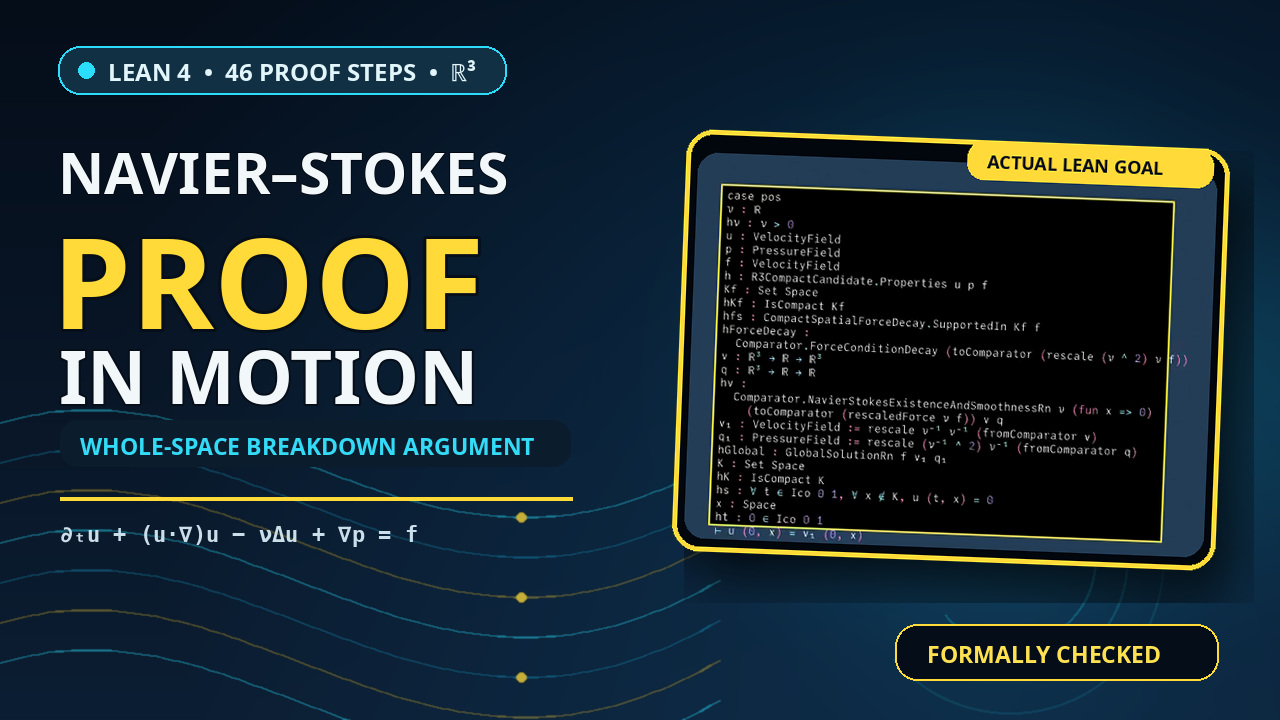
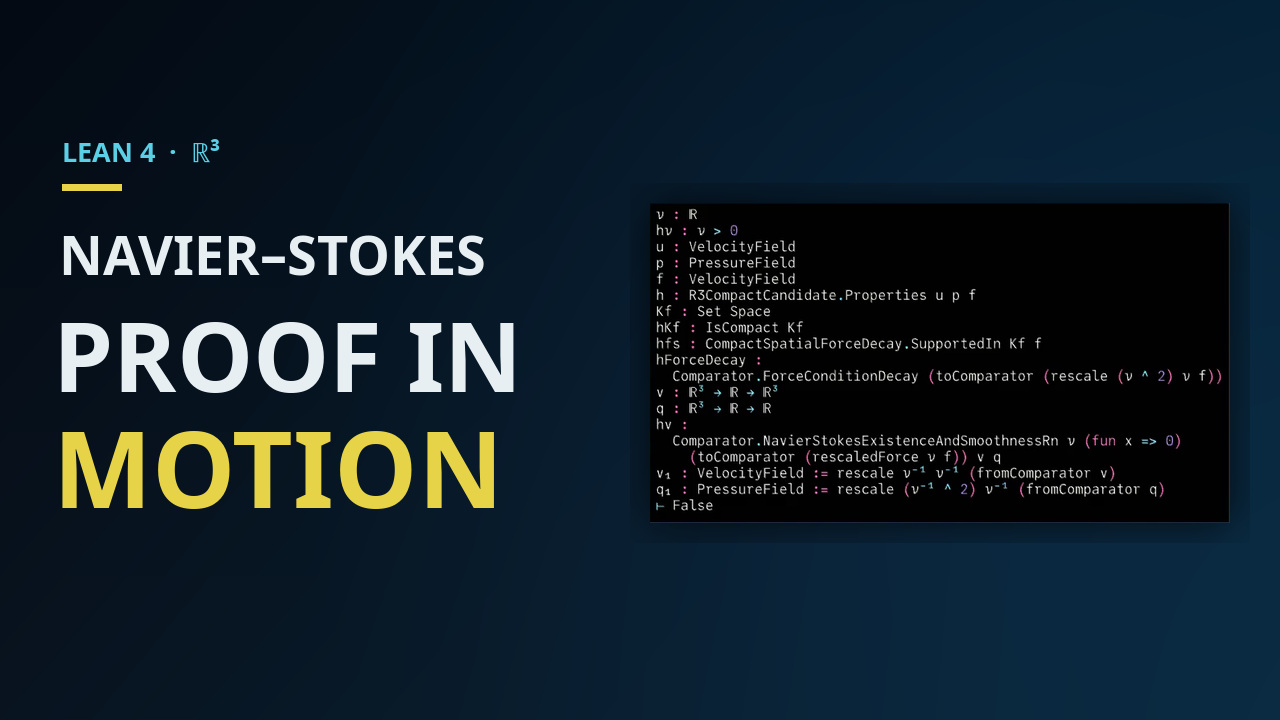
fix(animation): simplify YouTube thumbnail

diff --git a/ProofAnimation/create_thumbnail.py b/ProofAnimation/create_thumbnail.py
@@ -10,15 +10,15 @@ import subprocess
 import tempfile
 from pathlib import Path
 
-from PIL import Image, ImageDraw, ImageEnhance, ImageFilter, ImageFont, ImageOps
+from PIL import Image, ImageDraw, ImageEnhance, ImageFilter, ImageFont
 
 WIDTH = 1280
 HEIGHT = 720
 ROOT = Path(__file__).resolve().parent.parent
 DEFAULT_VIDEO = ROOT / "ProofAnimation/build/navier-stokes-proof.mp4"
 DEFAULT_OUTPUT = ROOT / "ProofAnimation/assets/navier-stokes-youtube-thumbnail.png"
+DEFAULT_TIMESTAMP = 8.4
 SANS_BOLD = Path("/usr/share/fonts/truetype/noto/NotoSans-Bold.ttf")
-MONO_BOLD = Path("/usr/share/fonts/truetype/dejavu/DejaVuSansMono-Bold.ttf")
 
 
 def font(path: Path, size: int) -> ImageFont.FreeTypeFont:
@@ -55,114 +55,45 @@ def background() -> Image.Image:
     pixels = image.load()
     for y in range(HEIGHT):
         for x in range(WIDTH):
+            horizontal = x / (WIDTH - 1)
             vertical = y / (HEIGHT - 1)
-            glow = max(0.0, 1.0 - math.dist((x, y), (970, 350)) / 850)
-            r = int(5 + 7 * vertical + 3 * glow)
-            g = int(13 + 17 * vertical + 23 * glow)
-            b = int(25 + 26 * vertical + 35 * glow)
+            glow = max(0.0, 1.0 - math.dist((x, y), (1000, 355)) / 720)
+            r = int(4 + 5 * vertical + 4 * glow)
+            g = int(10 + 10 * vertical + 20 * horizontal + 9 * glow)
+            b = int(19 + 13 * vertical + 28 * horizontal + 17 * glow)
             pixels[x, y] = (r, g, b)
     return image
 
 
-def cubic_curve(p0, p1, p2, p3, samples: int = 100):
-    points = []
-    for index in range(samples + 1):
-        t = index / samples
-        u = 1 - t
-        x = u**3 * p0[0] + 3 * u**2 * t * p1[0] + 3 * u * t**2 * p2[0] + t**3 * p3[0]
-        y = u**3 * p0[1] + 3 * u**2 * t * p1[1] + 3 * u * t**2 * p2[1] + t**3 * p3[1]
-        points.append((x, y))
-    return points
-
-
-def add_flow_lines(image: Image.Image) -> None:
-    flow = Image.new("RGBA", image.size, (0, 0, 0, 0))
-    draw = ImageDraw.Draw(flow)
-    colors = [
-        (41, 221, 255, 125),
-        (26, 180, 231, 88),
-        (255, 212, 55, 92),
-    ]
-    for index, offset in enumerate(range(-105, 136, 40)):
-        points = cubic_curve(
-            (-90, 570 + offset),
-            (215, 380 + offset),
-            (390, 760 + offset),
-            (720, 565 + offset),
-        )
-        draw.line(points, fill=colors[index % len(colors)], width=3)
-        if index % 2 == 0:
-            dot_x, dot_y = points[78]
-            draw.ellipse((dot_x - 5, dot_y - 5, dot_x + 5, dot_y + 5), fill=(255, 218, 56, 195))
-
-    for radius, alpha in ((86, 80), (118, 56), (154, 36)):
-        box = (1010 - radius, 560 - radius, 1010 + radius, 560 + radius)
-        draw.arc(box, 195, 500, fill=(35, 215, 247, alpha), width=3)
-
-    flow = flow.filter(ImageFilter.GaussianBlur(0.8))
-    image.alpha_composite(flow)
-
-
-def rounded_card(frame: Image.Image) -> Image.Image:
-    crop = frame.crop((340, 225, 930, 655))
-    crop = ImageEnhance.Contrast(crop).enhance(1.18)
-    crop = ImageEnhance.Brightness(crop).enhance(0.92)
-    crop = ImageOps.fit(crop, (520, 386), method=Image.Resampling.LANCZOS)
-
-    card = Image.new("RGBA", (552, 430), (0, 0, 0, 0))
-    card_draw = ImageDraw.Draw(card)
-    card_draw.rounded_rectangle((4, 4, 547, 425), radius=27, fill=(2, 7, 14, 255), outline=(255, 218, 56, 255), width=5)
-
-    mask = Image.new("L", crop.size, 0)
-    ImageDraw.Draw(mask).rounded_rectangle((0, 0, crop.width - 1, crop.height - 1), radius=20, fill=255)
-    card.paste(crop, (16, 27), mask)
-
-    tag_font = font(SANS_BOLD, 18)
-    card_draw.rounded_rectangle((285, 5, 531, 43), radius=16, fill=(255, 218, 56, 255))
-    card_draw.text((305, 12), "ACTUAL LEAN GOAL", font=tag_font, fill=(7, 15, 27, 255))
-    return card.rotate(-2.2, resample=Image.Resampling.BICUBIC, expand=True)
+def proof_panel(frame: Image.Image) -> Image.Image:
+    """Crop exactly to the goal box in the source frame."""
+    panel = frame.crop((280, 261, 1001, 661))
+    panel = ImageEnhance.Contrast(panel).enhance(1.08)
+    panel = ImageEnhance.Brightness(panel).enhance(0.94)
+    return panel.resize((580, 320), Image.Resampling.LANCZOS).convert("RGBA")
 
 
 def draw_thumbnail(frame: Image.Image) -> Image.Image:
     image = background().convert("RGBA")
-    add_flow_lines(image)
 
-    glow = Image.new("RGBA", image.size, (0, 0, 0, 0))
-    glow_draw = ImageDraw.Draw(glow)
-    glow_draw.ellipse((690, 80, 1320, 690), fill=(24, 194, 232, 36))
-    glow = glow.filter(ImageFilter.GaussianBlur(90))
-    image.alpha_composite(glow)
-
-    card = rounded_card(frame)
-    shadow = Image.new("RGBA", card.size, (0, 0, 0, 0))
-    shadow.paste((0, 0, 0, 185), (0, 0, card.width, card.height), card.getchannel("A"))
-    shadow = shadow.filter(ImageFilter.GaussianBlur(24))
-    image.alpha_composite(shadow, (684, 151))
-    image.alpha_composite(card, (666, 124))
+    panel = proof_panel(frame)
+    shadow = Image.new("RGBA", (620, 360), (0, 0, 0, 0))
+    ImageDraw.Draw(shadow).rectangle((20, 20, 600, 340), fill=(0, 0, 0, 185))
+    shadow = shadow.filter(ImageFilter.GaussianBlur(20))
+    image.alpha_composite(shadow, (630, 183))
+    image.alpha_composite(panel, (650, 203))
 
     draw = ImageDraw.Draw(image)
-    badge_font = font(SANS_BOLD, 24)
-    title_font = font(SANS_BOLD, 57)
-    proof_font = font(SANS_BOLD, 126)
-    motion_font = font(SANS_BOLD, 73)
-    subtitle_font = font(SANS_BOLD, 23)
-    equation_font = font(MONO_BOLD, 22)
+    label_font = font(SANS_BOLD, 27)
+    title_font = font(SANS_BOLD, 54)
+    proof_font = font(SANS_BOLD, 96)
+    motion_font = font(SANS_BOLD, 105)
 
-    draw.rounded_rectangle((58, 46, 506, 94), radius=22, fill=(17, 48, 68, 235), outline=(45, 220, 250, 190), width=2)
-    draw.ellipse((78, 62, 94, 78), fill=(42, 221, 250, 255))
-    draw.text((108, 55), "LEAN 4  •  46 PROOF STEPS  •  ℝ³", font=badge_font, fill=(225, 245, 250, 255))
-
-    draw.text((58, 133), "NAVIER–STOKES", font=title_font, fill=(242, 247, 250, 255), stroke_width=1, stroke_fill=(2, 8, 16, 255))
-    draw.text((52, 194), "PROOF", font=proof_font, fill=(255, 218, 56, 255), stroke_width=3, stroke_fill=(5, 14, 25, 255))
-    draw.text((59, 325), "IN MOTION", font=motion_font, fill=(242, 247, 250, 255), stroke_width=2, stroke_fill=(5, 14, 25, 255))
-    draw.rounded_rectangle((60, 420, 570, 466), radius=17, fill=(11, 29, 44, 220))
-    draw.text((80, 430), "WHOLE-SPACE BREAKDOWN ARGUMENT", font=subtitle_font, fill=(51, 219, 247, 255))
-
-    draw.line((60, 498, 572, 498), fill=(255, 218, 56, 210), width=4)
-    draw.text((60, 521), "∂ₜu + (u·∇)u − νΔu + ∇p = f", font=equation_font, fill=(203, 223, 234, 230))
-
-    draw.rounded_rectangle((895, 624, 1218, 680), radius=22, fill=(4, 13, 24, 235), outline=(255, 218, 56, 210), width=2)
-    draw.text((927, 638), "FORMALLY CHECKED", font=subtitle_font, fill=(255, 226, 82, 255))
+    draw.text((62, 133), "LEAN 4  ·  ℝ³", font=label_font, fill=(91, 207, 229, 255))
+    draw.rectangle((62, 184, 121, 190), fill=(231, 211, 71, 255))
+    draw.text((59, 217), "NAVIER–STOKES", font=title_font, fill=(232, 239, 243, 255))
+    draw.text((53, 289), "PROOF IN", font=proof_font, fill=(232, 239, 243, 255))
+    draw.text((53, 395), "MOTION", font=motion_font, fill=(231, 211, 71, 255))
 
     return image.convert("RGB")
 
@@ -171,7 +102,7 @@ def parse_args() -> argparse.Namespace:
     parser = argparse.ArgumentParser(description=__doc__)
     parser.add_argument("--video", type=Path, default=DEFAULT_VIDEO)
     parser.add_argument("--output", type=Path, default=DEFAULT_OUTPUT)
-    parser.add_argument("--timestamp", type=float, default=30.0)
+    parser.add_argument("--timestamp", type=float, default=DEFAULT_TIMESTAMP)
     return parser.parse_args()
 
 

diff --git a/ProofAnimation/README.md b/ProofAnimation/README.md
@@ -79,8 +79,8 @@ formalization environment before collecting the theorem's tactic information.
 
 ## YouTube thumbnail
 
-After rendering the video, generate the thumbnail from a representative proof
-state at 30 seconds:
+After rendering the video, generate the thumbnail from a stable proof state at
+about eight seconds:
 
 ```sh
 python3 ProofAnimation/create_thumbnail.py
